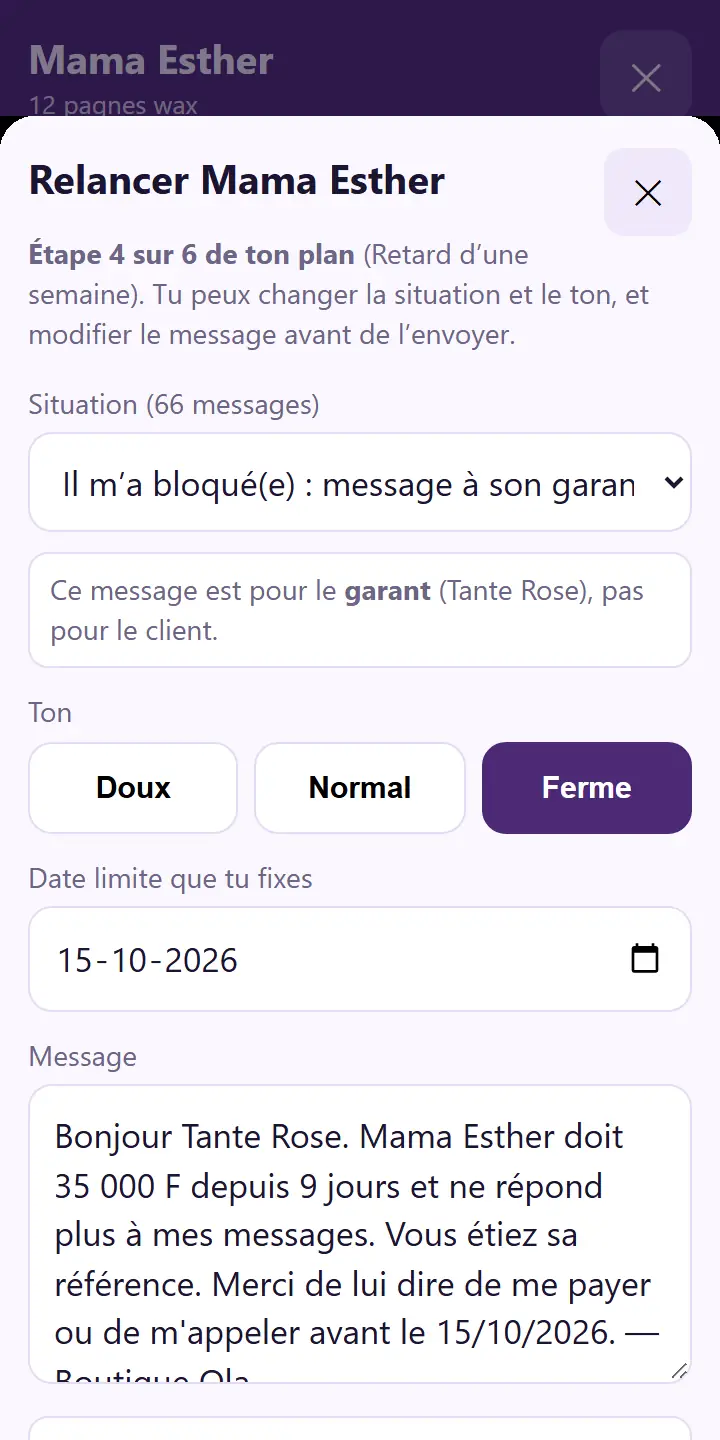
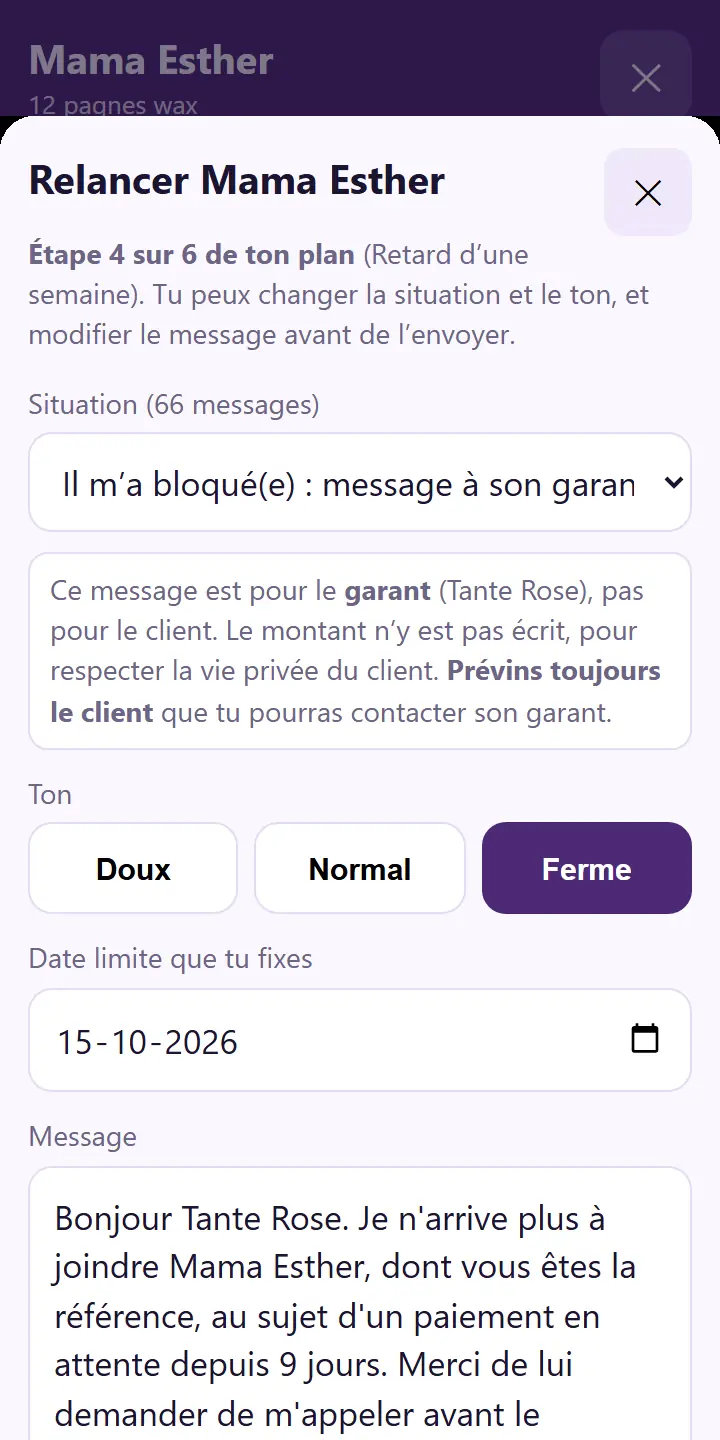
App v1.9 (messages garant sans montant, numero de paiement) + landing

diff --git a/cahier-credit-281758/index.html b/cahier-credit-281758/index.html
@@ -248,14 +248,14 @@ var SIT=[
   ferme:"Bonjour {nom}. Tout est réglé, merci. Pour un prochain crédit, je demande d'abord un paiement d'avance et un délai court. Passez me voir pour en parler. — {moi}"},
  {k:'bloque',l:'Il m’a bloqué(e) : message à son garant',
   to:'garant',
-  doux:"Bonjour {garant}, j'espère que vous allez bien. {nom} vous a donné comme personne de confiance. Je n'arrive plus à le/la joindre au sujet de {reste} ({objet}). Pouvez-vous lui demander de me contacter ? Merci beaucoup. — {moi}",
-  normal:"Bonjour {garant}. {nom} me doit {reste} ({objet}) depuis {jours} jours et ne répond plus. Vous êtes sa personne de référence : pouvez-vous l'aider à me contacter cette semaine ? Merci. — {moi}",
-  ferme:"Bonjour {garant}. {nom} doit {reste} depuis {jours} jours et ne répond plus à mes messages. Vous étiez sa référence. Merci de lui dire de me payer ou de m'appeler avant le {promesse}. — {moi}"},
+  doux:"Bonjour {garant}, j'espère que vous allez bien. {nom} vous a donné comme personne de confiance. Je n'arrive plus à le/la joindre au sujet d'un paiement en attente. Pouvez-vous lui demander de me contacter ? Merci beaucoup. — {moi}",
+  normal:"Bonjour {garant}. {nom} vous a donné comme référence. Je n'arrive plus à le/la joindre depuis {jours} jours au sujet d'un paiement en attente. Pouvez-vous l'aider à me contacter cette semaine ? Merci. — {moi}",
+  ferme:"Bonjour {garant}. Je n'arrive plus à joindre {nom}, dont vous êtes la référence, au sujet d'un paiement en attente depuis {jours} jours. Merci de lui demander de m'appeler avant le {promesse}. — {moi}"},
  {k:'garant',l:'Demander au garant de s’engager',
   to:'garant',
-  doux:"Bonjour {garant}, vous avez accepté d'être la personne de confiance de {nom}. Il/elle me doit {reste} ({objet}). Pouvez-vous m'aider à trouver un arrangement avec lui/elle ? Merci. — {moi}",
-  normal:"Bonjour {garant}. {nom} me doit {reste} pour {objet} et le délai est dépassé. Pouvez-vous confirmer que vous vous engagez à ce que ce soit payé avant le {promesse} ? Merci de me répondre. — {moi}",
-  ferme:"Bonjour {garant}. Comme garant de {nom}, je vous demande de confirmer par écrit comment {reste} seront payés avant le {promesse}. Sans réponse, je devrai agir autrement. — {moi}"},
+  doux:"Bonjour {garant}, vous avez accepté d'être la personne de confiance de {nom}. Un paiement est en attente. Pouvez-vous m'aider à trouver un arrangement avec lui/elle ? Merci. — {moi}",
+  normal:"Bonjour {garant}. Un paiement de {nom} est en retard. Pouvez-vous confirmer que vous l'aidez à régler avant le {promesse} ? Merci de me répondre. — {moi}",
+  ferme:"Bonjour {garant}. Comme garant de {nom}, je vous demande de m'indiquer comment le paiement en attente sera réglé avant le {promesse}. Sans réponse, je devrai agir autrement. — {moi}"},
  {k:'mediation',l:'Demander l’aide d’un médiateur',
   to:'mediateur',
   doux:"Bonjour, je vous contacte avec respect. {nom} me doit {reste} ({objet}) et nous n'arrivons pas à nous entendre. Pouvez-vous nous aider à trouver un arrangement à l'amiable ? Merci pour votre temps. — {moi}",
@@ -425,7 +425,7 @@ function settings(){
   h+='<label for="s_restore">Restaurer : colle ici le texte de sauvegarde</label><textarea id="s_restore" style="min-height:90px"></textarea><div class="acts"><button class="btn sec" data-a="restore">Restaurer</button></div>';
   h+='<h3>Exemples</h3><div class="acts"><button class="btn sec" data-a="demo">Charger des exemples</button><button class="btn sec" data-a="undemo">Supprimer les exemples</button></div>';
   h+='<h3>Zone sensible</h3><div class="acts"><button class="btn red" data-a="wipe">Tout effacer</button></div>';
-  h+='<p class="sub" style="margin-top:20px">Mon cahier de crédit • version 1.8 • PRISM Pratique. Outil d’organisation : les messages sont des modèles à adapter, ce n’est pas un conseil juridique.</p></div>';
+  h+='<p class="sub" style="margin-top:20px">Mon cahier de crédit • version 1.9 • PRISM Pratique. Outil d’organisation : les messages sont des modèles à adapter, ce n’est pas un conseil juridique.</p></div>';
   return h;
 }
 function render(){
@@ -482,14 +482,16 @@ function relanceSheet(id){
 }
 function paintRelance(){
   var d=find(relDraft.id), t=build(d,relDraft.k,relDraft.tone,relDraft.promesse), ds=daysSinceRel(d);
+  if(relDraft.pay && S.myphone && !sitOf(relDraft.k).to) t+=String.fromCharCode(10)+'Paiement Mobile Money : '+S.myphone;
   var h='<button class="x" data-a="closesheet" aria-label="Fermer">✕</button><h2>Relancer '+esc(d.name)+'</h2><p class="sub">'+(relDraft.p>-1?'<b>Étape '+(relDraft.p+1)+' sur '+PLAN.length+' de ton plan</b> ('+esc(PLAN[relDraft.p].l)+'). ':'')+'Tu peux changer la situation et le ton, et modifier le message avant de l’envoyer.</p>';
   h+='<label for="r_sit">Situation ('+SIT.length*3+' messages)</label><select id="r_sit">'+GORD.map(function(g){return '<optgroup label="'+g+'">'+SIT.filter(function(s){return GRP[s.k]===g;}).map(function(s){return '<option value="'+s.k+'"'+(s.k===relDraft.k?' selected':'')+'>'+esc(s.l)+'</option>';}).join('')+'</optgroup>';}).join('')+'</select>';
   var to=sitOf(relDraft.k).to;
-  if(to==='garant') h+='<div class="note">'+(d.gphone?'Ce message est pour le <b>garant</b> ('+esc(d.gname||'')+'), pas pour le client.':'Message pour le <b>garant</b>. Ajoute son numéro dans « Modifier » pour l’envoyer directement, sinon copie-le.')+'</div>';
+  if(to==='garant') h+='<div class="note">'+(d.gphone?'Ce message est pour le <b>garant</b> ('+esc(d.gname||'')+'), pas pour le client.':'Message pour le <b>garant</b>. Ajoute son numéro dans « Modifier » pour l’envoyer directement, sinon copie-le.')+' Le montant n’y est pas écrit, pour respecter la vie privée du client. <b>Prévins toujours le client</b> que tu pourras contacter son garant.</div>';
   if(to==='mediateur') h+='<div class="note">Message pour un <b>médiateur</b> (chef de quartier, pasteur, imam, aîné de la famille…). Copie-le et envoie-le à la personne choisie.</div>';
   h+='<label>Ton</label><div class="tones">'+[['doux','Doux'],['normal','Normal'],['ferme','Ferme']].map(function(x){return '<button data-a="tone" data-v="'+x[0]+'" class="'+(relDraft.tone===x[0]?'on':'')+'">'+x[1]+'</button>';}).join('')+'</div>';
   if(['promet','delai','dernier','partiel','geste','bloque','garant','demenage'].indexOf(relDraft.k)>-1) h+='<label for="r_prom">Date limite que tu fixes</label><input id="r_prom" type="date" value="'+relDraft.promesse+'">';
   h+='<label for="r_msg">Message</label><textarea id="r_msg">'+esc(t)+'</textarea>';
+  if(S.myphone && !to) h+='<label class="chk" style="display:flex;gap:10px;align-items:center;margin-top:8px;font-weight:600"><input type="checkbox" id="r_pay" style="width:22px;height:22px"'+(relDraft.pay?' checked':'')+'> Ajouter mon numéro Mobile Money pour faciliter le paiement</label>';
   if(ds<2) h+='<div class="note warn">Tu l’as déjà relancé '+(ds===0?'aujourd’hui':'hier')+'. Mieux vaut attendre 2 jours : trop de messages fâchent le client et WhatsApp peut bloquer ton compte.</div>';
   h+='<div class="note">Reste poli(e) : ne menace jamais, n’affiche pas son nom ailleurs.</div>';
   h+='<div class="acts" style="margin-top:12px">'+(recipient(d,relDraft.k)?'<button class="btn wa" data-a="sendwa">Ouvrir WhatsApp</button>':'')+'<button class="btn sec" data-a="copymsg">Copier</button></div>';
@@ -893,6 +895,7 @@ var ACT={
   relance:function(el){relanceSheet(el.getAttribute('data-id'));},
   tone:function(el){relDraft.tone=el.getAttribute('data-v'); paintRelance();},
   sendwa:function(){
+    if(relDraft.k==='conteste'){ find(relDraft.id).auto=false; }
     var d=find(relDraft.id), msg=val('r_msg'), num=waNumber(recipient(d,relDraft.k));
     d.rel=d.rel||[]; d.rel.push({t:Date.now(),s:relDraft.k,tone:relDraft.tone,p:relDraft.p>-1?relDraft.p:undefined}); save();
     window.open('https://wa.me/'+num+'?text='+encodeURIComponent(msg),'_blank');
@@ -1047,10 +1050,11 @@ document.addEventListener('click',function(ev){
 });
 document.addEventListener('change',function(ev){
   var t=ev.target;
+  if(t.id==='r_pay'){relDraft.pay=t.checked; var dd=find(relDraft.id), m0=build(dd,relDraft.k,relDraft.tone,relDraft.promesse); document.getElementById('r_msg').value=m0+(t.checked?'\nPaiement Mobile Money : '+S.myphone:'');}
   if(t.id==='r_sit'){relDraft.k=t.value; paintRelance();}
   if(t.id==='o_sit'){OD.k=t.value; paintOwedMsg();}
   if(t.id==='o_prom'){OD.prom=t.value||OD.prom; document.getElementById('o_msg').value=owedBuild(owedFind(OD.id),OD.k,OD.tone,OD.prom);}
-  if(t.id==='r_prom'){relDraft.promesse=t.value||relDraft.promesse; var d=find(relDraft.id); document.getElementById('r_msg').value=build(d,relDraft.k,relDraft.tone,relDraft.promesse);}
+  if(t.id==='r_prom'){relDraft.promesse=t.value||relDraft.promesse; var d=find(relDraft.id); document.getElementById('r_msg').value=build(d,relDraft.k,relDraft.tone,relDraft.promesse)+((relDraft.pay&&S.myphone&&!sitOf(relDraft.k).to)?String.fromCharCode(10)+'Paiement Mobile Money : '+S.myphone:'');}
 });
 window.__cc={S:function(){return S;},evalTest:evalTest,toWords:toWords,plan:plan,build:build,waNumber:waNumber,rest:rest,status:status,late:late,suggest:suggest,F:F};
 render();

diff --git a/offre-955773/index.html b/offre-955773/index.html
@@ -155,7 +155,7 @@
   <div class="sc rv"><span class="n">2</span><p><b>Dans son cahier</b>, elle avait noté son autre numéro, son quartier et un garant.</p>
     <p class="note" style="margin:0">Mama Esther · Dantokpa · garant : Tante Rose</p></div>
   <div class="sc rv"><span class="n">3</span><p><b>Le message au garant était déjà écrit.</b> Elle appuie. WhatsApp s'ouvre.</p>
-    <div class="wab"><div class="me">Bonjour Tante Rose, Mama Esther me doit 35 000 F et ne répond plus. Vous êtes sa référence…</div><div class="them">Je lui dis de passer demain.</div></div></div>
+    <div class="wab"><div class="me">Bonjour Tante Rose, Je n'arrive plus à joindre Mama Esther, dont vous êtes la référence, au sujet d'un paiement en attente…</div><div class="them">Je lui dis de passer demain.</div></div></div>
   <div class="sc rv"><span class="n">4</span><p><b>Le lendemain.</b></p>
     <span class="tag tg">&#10004; + 35 000 F récupérés</span><span class="tag ty">&#9203; 18 000 F promis vendredi</span></div>
   <p class="rv" style="font-size:21px;font-weight:800">Elle n'a pas arrêté le crédit. Elle l'a <em style="color:var(--or);font-style:normal">sécurisé</em>.</p>
@@ -338,7 +338,7 @@ var SIT=[
  {l:'Rappel avant l’échéance',m:{doux:"Bonjour [Nom], j'espère que vous allez bien. Petit rappel amical : votre paiement de [montant] est prévu le [date]. Merci d'avance !",normal:"Bonjour [Nom]. Je vous rappelle que [montant] est à régler le [date]. Pouvez-vous me confirmer que ce sera bon ? Merci.",ferme:"Bonjour [Nom]. Le [date], vous devez me payer [montant]. Merci de me confirmer ce jour-là l'heure et le moyen de paiement."}},
  {l:'Il promet « demain »',m:{doux:"Bonjour [Nom], merci pour votre réponse. Je note que vous me payez [montant] le [date]. Pouvez-vous me confirmer cette date ? Je compte sur vous.",normal:"Bonjour [Nom]. D'accord, je note votre promesse de me payer [montant] le [date]. C'est la date finale : sans paiement ce jour-là, je ne pourrai plus vous faire crédit. Merci.",ferme:"Bonjour [Nom]. Vous m'avez déjà promis plusieurs fois. Dernière promesse : [montant] le [date], sans faute. Après cette date, je ne ferai plus de crédit."}},
  {l:'Il dit avoir déjà payé',m:{doux:"Bonjour [Nom], merci pour votre message. Je ne retrouve pas ce paiement de mon côté. Pouvez-vous m'envoyer la preuve (capture Mobile Money ou date et montant) ? Je vérifie tout de suite.",normal:"Bonjour [Nom]. Selon mon cahier, il reste [montant]. Si vous avez payé, envoyez-moi la preuve (capture, date, montant) et je corrige.",ferme:"Bonjour [Nom]. Mon cahier indique [montant] non payés. Sans preuve de paiement, je dois considérer que la dette reste due. Merci de me l'envoyer aujourd'hui."}},
- {l:'Il m’a bloqué(e) : message au garant',m:{doux:"Bonjour [Garant], j'espère que vous allez bien. [Nom] vous a donné comme personne de confiance. Je n'arrive plus à le/la joindre au sujet de [montant]. Pouvez-vous lui demander de me contacter ? Merci beaucoup.",normal:"Bonjour [Garant]. [Nom] me doit [montant] et ne répond plus. Vous êtes sa personne de référence : pouvez-vous l'aider à me contacter cette semaine ? Merci.",ferme:"Bonjour [Garant]. [Nom] doit [montant] depuis plusieurs jours et ne répond plus. Merci de lui dire de me payer ou de m'appeler avant le [date]."}}
+ {l:'Il m’a bloqué(e) : message au garant',m:{doux:"Bonjour [Garant], j'espère que vous allez bien. [Nom] vous a donné comme personne de confiance. Je n'arrive plus à le/la joindre au sujet d'un paiement en attente. Pouvez-vous lui demander de me contacter ? Merci beaucoup.",normal:"Bonjour [Garant]. Je n'arrive plus à joindre [Nom], dont vous êtes la référence, au sujet d'un paiement en attente. Pouvez-vous l'aider à me contacter cette semaine ? Merci.",ferme:"Bonjour [Garant]. Je n'arrive plus à joindre [Nom] au sujet d'un paiement en attente depuis plusieurs jours. Merci de lui demander de m'appeler avant le [date]."}}
 ];
 var cs=0, ct='doux';
 function paintMsg(){

diff --git a/cahier-credit-281758/sw.js b/cahier-credit-281758/sw.js
@@ -1,5 +1,5 @@
 /* Service worker : lance l'app hors connexion. Réseau d'abord (mises à jour), cache en secours. */
-var V='cahier-credit-v1.8';
+var V='cahier-credit-v1.9';
 var FILES=['./','index.html','manifest.webmanifest','icon-192.png','icon-512.png'];
 self.addEventListener('install',function(e){
   e.waitUntil(caches.open(V).then(function(c){return c.addAll(FILES);}).then(function(){return self.skipWaiting();}));
